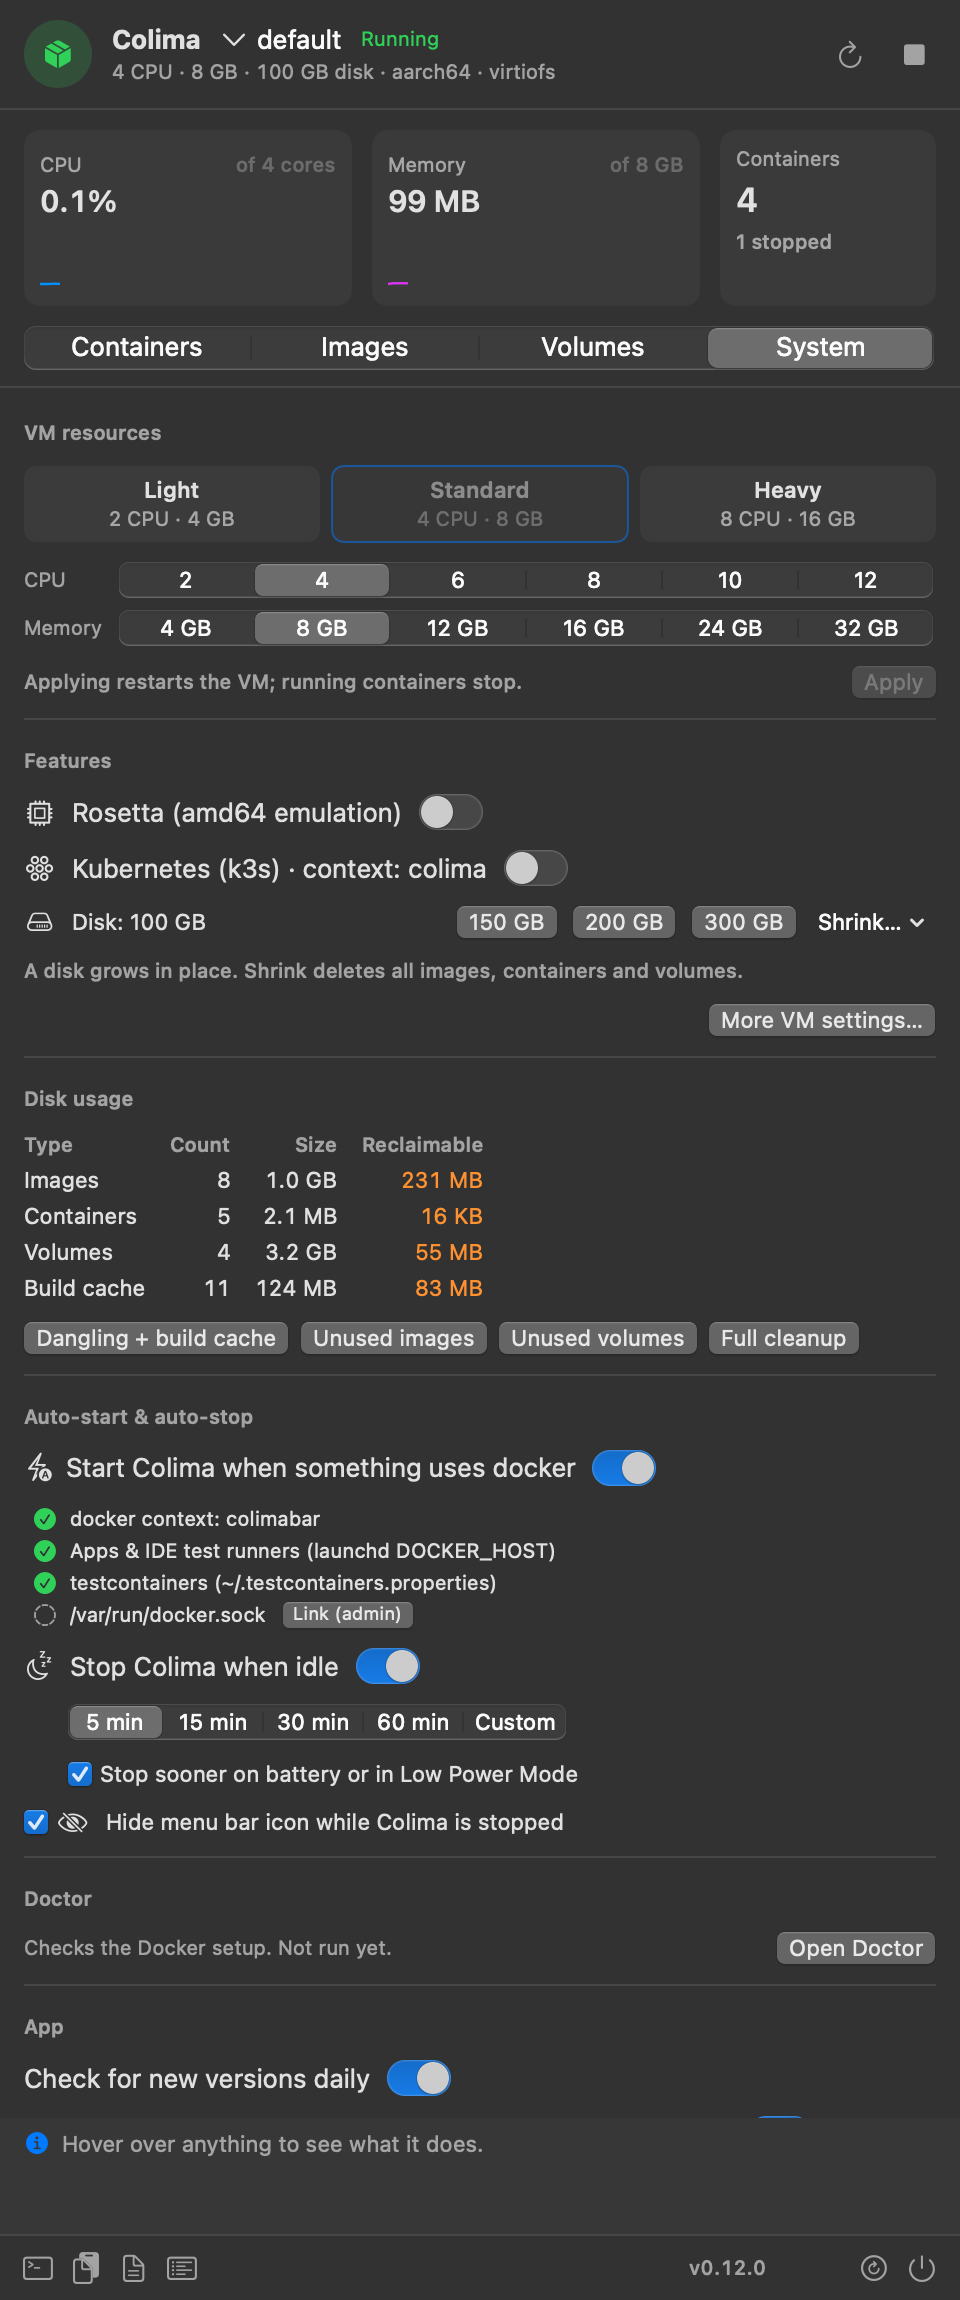
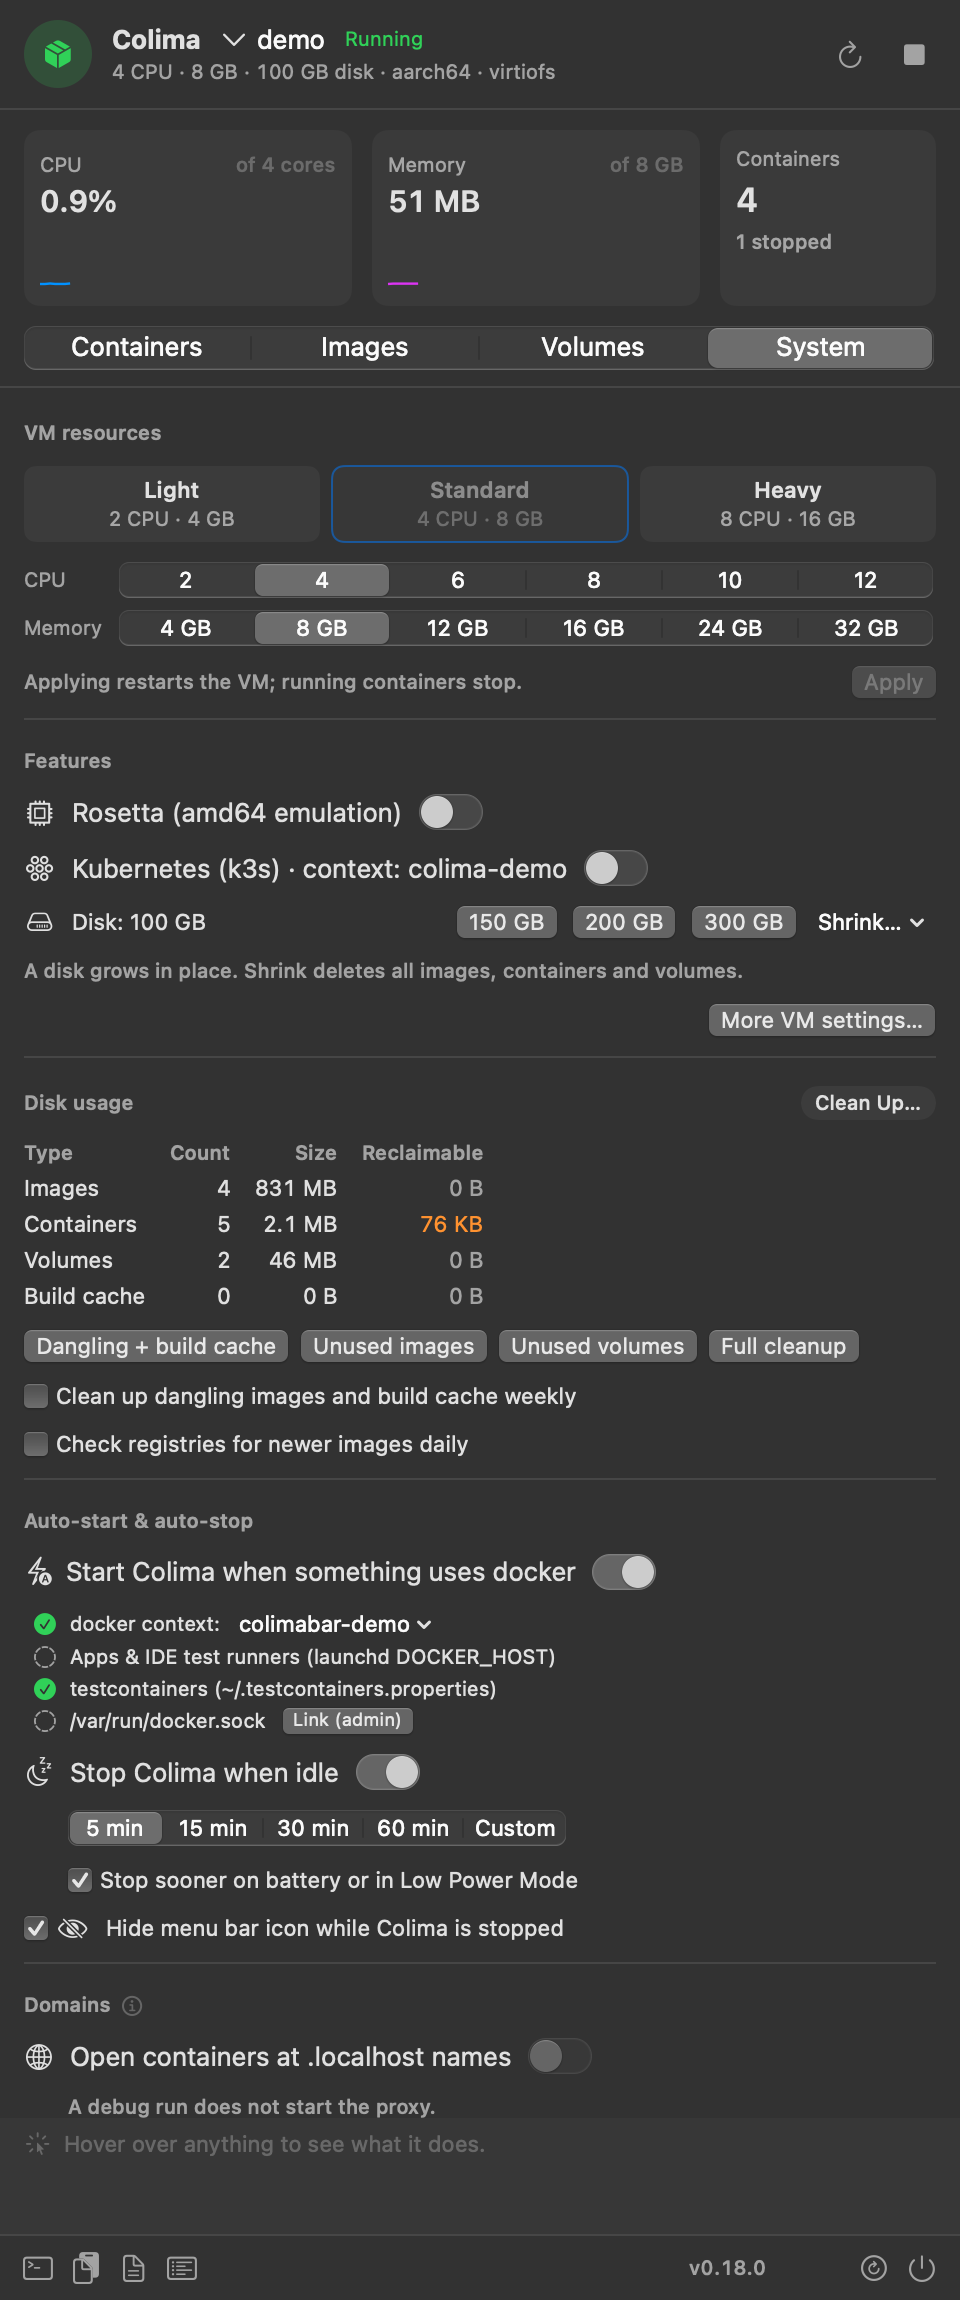
Release 0.18.0
Move the unreleased changes to 0.18.0: the remove button of a Compose
project and the header that shows only the buttons that apply. Replace
the README screenshots with ones from a separate demo profile, so they
show the current UI and only the demo containers, and say in
CONTRIBUTING how to make them with -profile. Mention the trash button
in the README summary and the dashboard section of the user guide.

diff --git a/docs/usage.md b/docs/usage.md
@@ -56,7 +56,7 @@ The live tiles show the total CPU and memory of all containers as a share of the
 - A stopped container has logs, start and remove buttons.
 - The shell opens in iTerm, or in Terminal when iTerm is not installed. If the container has no shell, the terminal tells you to use **Debug shell**.
 - **Debug shell** is in the ••• menu of a running container and on its Inspect page. It opens a shell in a new container that shares the processes and the network of the container. Use it for an image that has no shell, for example a distroless image. The new container uses the image `busybox:latest`. On the first use, docker downloads the image. In the shell, `ps` shows the processes of the container, and its files are in `/proc/1/root`. The new container has the `SYS_PTRACE` capability and no other extra right. While it runs, it shows as a row named `colimabar-debug-` and the first 12 characters of the container ID. If you choose **Debug shell** again, you get a second shell in the same container. When you close the window, or when the container stops, the new container ends and docker removes it. To use another image, for example `nicolaka/netshoot`, run `defaults write com.imohitkr.ColimaBar debugShellImage nicolaka/netshoot`. A custom image must start a shell by default (`busybox` and `nicolaka/netshoot` do). The setting is not in the settings file. If the name is not valid, ColimaBar uses busybox and sends a notification.
-- The ••• menu of a Compose project opens the project folder and runs docker compose. See [Compose projects](#compose-projects).
+- The ••• menu of a Compose project opens the project folder and runs docker compose. A project with no running container also has a trash button. See [Compose projects](#compose-projects).
 - The ••• menu of a container opens **Inspect…**. It also copies the name, ID, image or an exec command. It also opens ports. **Logs in Terminal** follows the logs in iTerm, or in Terminal when iTerm is not installed.
 - You can filter the list and show running containers only.
 - **Stop all** stops all running containers. ColimaBar asks first.

diff --git a/README.md b/README.md
@@ -22,7 +22,7 @@
 </p>
 
 - **Auto-start**: run `docker`, a test suite or an IDE test while Colima is stopped. ColimaBar starts the VM, and the command continues.
-- **Live dashboard**: see containers by Compose project, with health, ports, CPU, memory and logs. Inspect a container, open a debug shell in one that has no shell, and pull, start or remove a Compose project. Back up and restore volumes. Images and VM settings are one click away. Change the VM type or mount type with a guided recreate (backup, image save, restore).
+- **Live dashboard**: see containers by Compose project, with health, ports, CPU, memory and logs. Inspect a container, open a debug shell in one that has no shell, and pull, start or remove a Compose project. A stopped project has a trash button, and you choose to keep or delete its volumes. Back up and restore volumes. Images and VM settings are one click away. Change the VM type or mount type with a guided recreate (backup, image save, restore).
 - **Auto-stop**: ColimaBar can stop the VM when it is idle.
 - **VM type change**: switch a profile between `vz` and `qemu`, or between the `virtiofs`, `sshfs` and `9p` mounts. ColimaBar backs up the volumes and images, recreates the VM and restores what is missing.
 - **Network health**: ColimaBar finds published ports that stopped answering on the Mac, and a VM that cannot resolve names after a VPN change. It offers a restart.

diff --git a/CHANGELOG.md b/CHANGELOG.md
@@ -6,6 +6,8 @@ The format follows [Keep a Changelog 1.1.0](https://keepachangelog.com/en/1.1.0/
 
 ## [Unreleased]
 
+## [0.18.0] - 2026-10-30
+
 ### Added
 
 - Remove a Compose project. Click the trash button in the header of a stopped project, or **Remove Project…** in its ••• menu. ColimaBar asks first and lists the volumes of the project: **Keep Volumes** or **Delete Volumes**. If the project has no volumes, the dialog shows **Remove**. **Cancel** is the default button. Images and external volumes stay. See [Compose projects](docs/usage.md#compose-projects).
@@ -321,7 +323,8 @@ The format follows [Keep a Changelog 1.1.0](https://keepachangelog.com/en/1.1.0/
 - Notifications for failures only.
 - A hover hint for each control.
 
-[Unreleased]: https://github.com/imohitkr/colima-bar/compare/v0.17.0...HEAD
+[Unreleased]: https://github.com/imohitkr/colima-bar/compare/v0.18.0...HEAD
+[0.18.0]: https://github.com/imohitkr/colima-bar/compare/v0.17.0...v0.18.0
 [0.17.0]: https://github.com/imohitkr/colima-bar/compare/v0.16.0...v0.17.0
 [0.16.0]: https://github.com/imohitkr/colima-bar/compare/v0.15.0...v0.16.0
 [0.15.0]: https://github.com/imohitkr/colima-bar/compare/v0.14.1...v0.15.0

diff --git a/docs/install.md b/docs/install.md
@@ -57,7 +57,7 @@ macOS does not show the "Apple could not verify" prompt for this download. If Co
 Set `COLIMABAR_VERSION` to the release tag. The installer supports v0.4.0 and later.
 
 ```sh
-curl -fsSL https://raw.githubusercontent.com/imohitkr/colima-bar/main/scripts/install.sh | COLIMABAR_VERSION=v0.17.0 bash
+curl -fsSL https://raw.githubusercontent.com/imohitkr/colima-bar/main/scripts/install.sh | COLIMABAR_VERSION=v0.18.0 bash
 ```
 
 Version 0.14.1 is the last version for macOS 14. The script on the main branch needs macOS 15, so on macOS 14 take the script of the tag too:

diff --git a/CONTRIBUTING.md b/CONTRIBUTING.md
@@ -83,6 +83,8 @@ The app reads these flags at launch. A run with `--snapshot`, `--popover`, `--no
 - `COLIMABAR_SNAPSHOT_HEIGHT`: the window height in points.
 - `COLIMABAR_SNAPSHOT_DELAY`: seconds to wait before the snapshot (default 6). Use 65 to fill the sparklines.
 
+To show another profile, add `-profile NAME` after the other arguments. The argument does not change the saved setting. For the README screenshots, use a separate profile with only the demo containers.
+
 Example:
 
 ```sh
